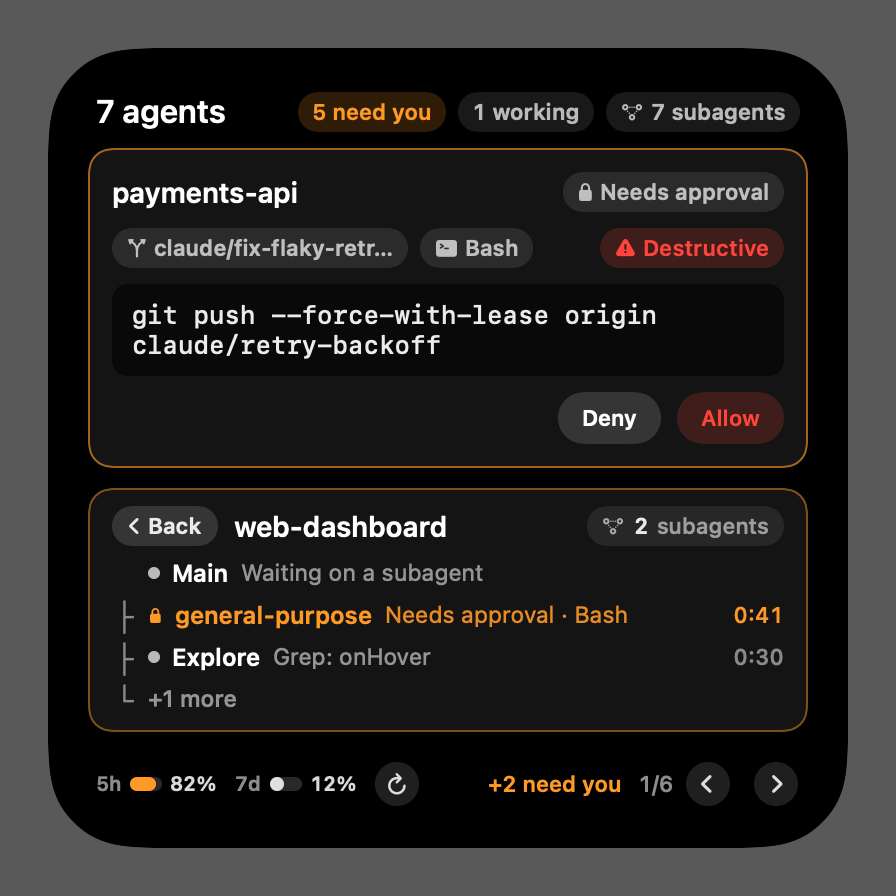
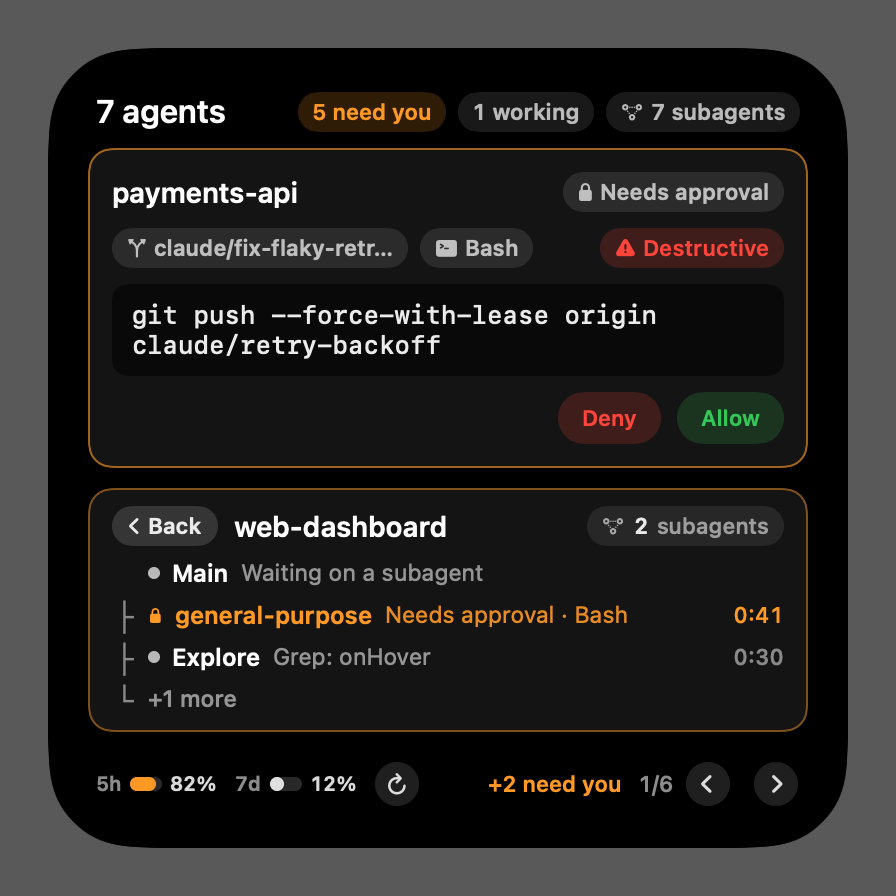
Approval colours: green is positive, red is negative
Deny is red-tinted, Allow / Confirm green, also on destructive requests (the Destructive pill and the
two-step carry the warning). Adds an ordinary-approval snapshot.

Changed region(s): [[0.625, 0.4375, 0.875, 0.5]]

diff --git a/Shared/IslandViews.swift b/Shared/IslandViews.swift
@@ -54,8 +54,8 @@ enum Island {
     ///   orange  `waiting`  waiting for you (permission, question, input)
     ///   blue    `review`   a finished turn ready for review
     ///   grey    `running`  working (it moves with the `pulse` beat instead of changing colour)
-    ///   red     `danger`   failed, destructive, a nearly full limit
-    ///   green   `allow`    the affirmative Allow button, nothing else
+    ///   red     `danger`   negative: Deny, failed, destructive, a nearly full limit
+    ///   green   `allow`    positive: the Allow / Confirm buttons, nothing else
     ///   coral   brand: the robot logo only
     static let coral = Color(red: 0.851, green: 0.467, blue: 0.341)  // #D97757
     /// The robot's three tones. Change these to recolour the logo.
@@ -500,8 +500,9 @@ struct PromptPanel: View {
         .background(RoundedRectangle(cornerRadius: Island.innerRadius, style: .continuous).fill(Color.black.opacity(0.55)))
     }
 
-    /// The only place an approval is answered. Standard button roles: quiet Deny on the left, the action on the right. A destructive
-    /// request tints Allow red and makes it a two-step: "Allow", then a filled red "Confirm" for a few seconds. "Allow for session" is never offered for it.
+    /// The only place an approval is answered. Positive is green, negative is red, as users expect: red-tinted Deny on the left, Allow on
+    /// the right (filled green). A destructive request keeps those colours (the red "Destructive" pill carries the
+    /// danger) but makes Allow a two-step: a green-tinted "Allow", then a filled green "Confirm" for a few seconds. "Allow for session" is never offered for it.
     @ViewBuilder private var actions: some View {
         HStack(spacing: 8) {
             if !p.canAnswer {
@@ -539,14 +540,14 @@ struct PromptPanel: View {
                 }
                 Spacer(minLength: 8)
                 Button(intent: DenyIntent(sessionId: p.sessionId, requestId: p.requestId)) {
-                    Pill(title: "Deny", height: 26, stretch: false)
+                    Pill(title: "Deny", tint: Island.danger, wash: true, height: 26, stretch: false)
                 }
                 .accessibilityLabel("Deny \(Island.target(p.tool, p.text))")
                 Button(intent: AllowIntent(sessionId: p.sessionId, requestId: p.requestId)) {
                     if p.confirming {
-                        Pill(title: "Confirm", tint: Island.danger, filled: true, height: 26, stretch: false)
+                        Pill(title: "Confirm", tint: Island.allow, filled: true, height: 26, stretch: false)
                     } else if p.destructive {
-                        Pill(title: "Allow", tint: Island.danger, wash: true, height: 26, stretch: false)
+                        Pill(title: "Allow", tint: Island.allow, wash: true, height: 26, stretch: false)
                     } else {
                         Pill(title: "Allow", tint: Island.allow, filled: true, height: 26, stretch: false)
                     }

diff --git a/App/Snapshots.swift b/App/Snapshots.swift
@@ -18,6 +18,11 @@ enum IslandSnapshots {
         let permissionId = permission.prompt?.requestId
         let confirm = NotchActivityState.make(
             sessions: sessions.filter { $0.pending?.isQuestion != true }, quota: quota, confirmingRequestId: permissionId)
+        // An ordinary (not destructive) approval, for the green Allow.
+        var allow = permission
+        allow.prompt?.destructive = false
+        allow.prompt?.text = "swift test --filter Retry"
+        allow.prompt?.sessionScope = "swift test"
         let working = NotchActivityState.make(
             sessions: sessions.filter { $0.status == .working || $0.status == .compacting }, quota: quota)
         let idle = NotchActivityState.make(sessions: [], quota: quota)
@@ -49,6 +54,7 @@ enum IslandSnapshots {
         for (name, st) in [
             ("expanded-subagents", tree), ("expanded-subagents-permission", treeAsking),
             ("expanded-question", question), ("expanded-permission", permission), ("expanded-permission-confirm", confirm),
+            ("expanded-permission-allow", allow),
             ("expanded-working", working),
             ("expanded-page-2", page2), ("expanded-idle", idle), ("expanded-larger", large),
         ] {

diff --git a/CHANGELOG.md b/CHANGELOG.md
@@ -9,12 +9,11 @@ All notable changes are documented here. The format follows [Keep a Changelog](h
   `docs/GUIDE.md`; build-from-source steps moved to CONTRIBUTING; fresh screenshots.
 
 ### Changed
-- **Island colours are semantic**: orange = waiting for you, blue = ready for review, grey = running, red = failed or
-  destructive, green = the Allow button only; coral stays on the logo. Limit and context meters are grey until orange
+- **Island colours are semantic**: orange = waiting for you, blue = ready for review, grey = running, red = negative (failed,
+  destructive, Deny), green = positive (Allow / Confirm); coral stays on the logo. Limit and context meters are grey until orange
   (75% / 65%) and red (90% / 85%, with a "!"). Only the "need you" count is tinted in the header.
 - **One approval pattern**: only the featured card answers. Session rows show a quiet **Review** (or **Open**) instead of
-  inline Deny / Allow. On a destructive command Allow is red-tinted and takes a second tap (a filled red **Confirm**,
-  lapses after 6 s), with Deny staying a quiet secondary button; "Allow for session" stays hidden for it.
+  inline Deny / Allow. On a destructive command Allow takes a second tap (**Confirm**, lapses after 6 s), with the red "Destructive" pill carrying the warning; "Allow for session" stays hidden for it.
 - **Branding**: the name is styled **NotchBot** in the UI and docs (identifiers `Notchbot.app`, `notchbot-hook`,
   `dev.notchbot.app` keep the lowercase form), and the robot logo sits at the top of the README.
 - **Renamed from Claude Notch to NotchBot**, with a new pixel-art robot logo, so the name and mark no longer lean on

diff --git a/README.md b/README.md
@@ -60,7 +60,7 @@ Uninstall the hooks **first**: removing the app does not remove the hooks it add
 
 The logo sits left of the cutout and a waveform on the right, one bar per working session (thinner bars for subagents).
 The waveform is **grey** while agents work, **orange** when something waits on you, and rests as dots when idle. A
-**blue** badge on the logo counts results waiting for your review. Red is kept for failures and destructive commands.
+**blue** badge on the logo counts results waiting for your review. Red means negative: failed, destructive, Deny.
 
 <p align="center">
   <img src="docs/screens/compact-working.png" alt="Compact island while agents work" width="270">
@@ -82,8 +82,7 @@ It opens by itself when something needs you (and on a finished result, if you li
 
 - **Approve from the island.** A permission request shows the exact command with **Allow / Deny**. Requests from a
   subagent say so. Approvals are answered only on this card: any other waiting session shows a quiet **Review** that
-  brings its request up. A destructive command (`rm -rf`, force-push, `sudo`, ...) tints **Allow** red
-  and asks you to tap it twice (**Allow**, then a filled red **Confirm**).
+  brings its request up. A destructive command (`rm -rf`, force-push, `sudo`, ...) keeps green **Allow** / red **Deny** but asks you to tap Allow twice (**Allow**, then **Confirm**).
 - **Questions.** When Claude asks you something, the island shows the question and its choices; **Answer in Claude**
   jumps to the session, **Not now** dismisses it.
 - **Every session at a glance.** Name, branch, elapsed time, the prompt that started the turn, the current tool,

diff --git a/docs/GUIDE.md b/docs/GUIDE.md
@@ -18,7 +18,7 @@ there is no hover or scrolling inside it; you interact with buttons.
 
 **Compact view.** Logo on the left, waveform on the right: one bar per working session, thinner bars for subagents.
 Grey = agents are working, orange = something needs you, dots = idle. An optional blue badge on the logo counts results
-you haven't reviewed. Red only ever means failed or destructive.
+you haven't reviewed. Green is Allow, red is Deny, failed or destructive.
 
 **Expanded view.** It opens by itself when something needs you. From top to bottom:
 
